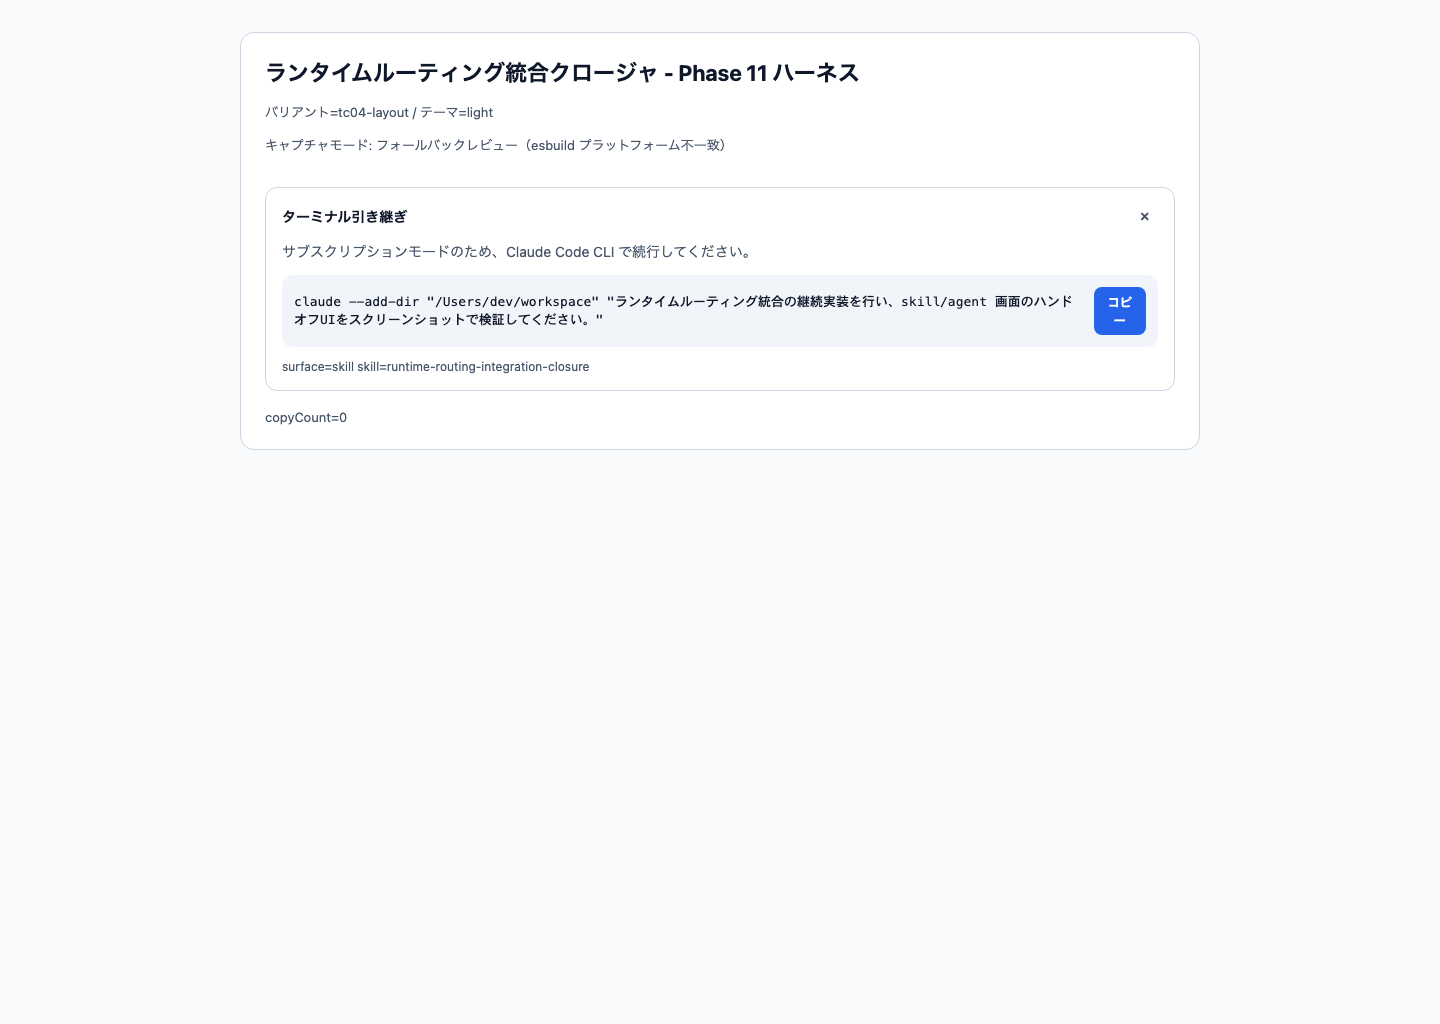
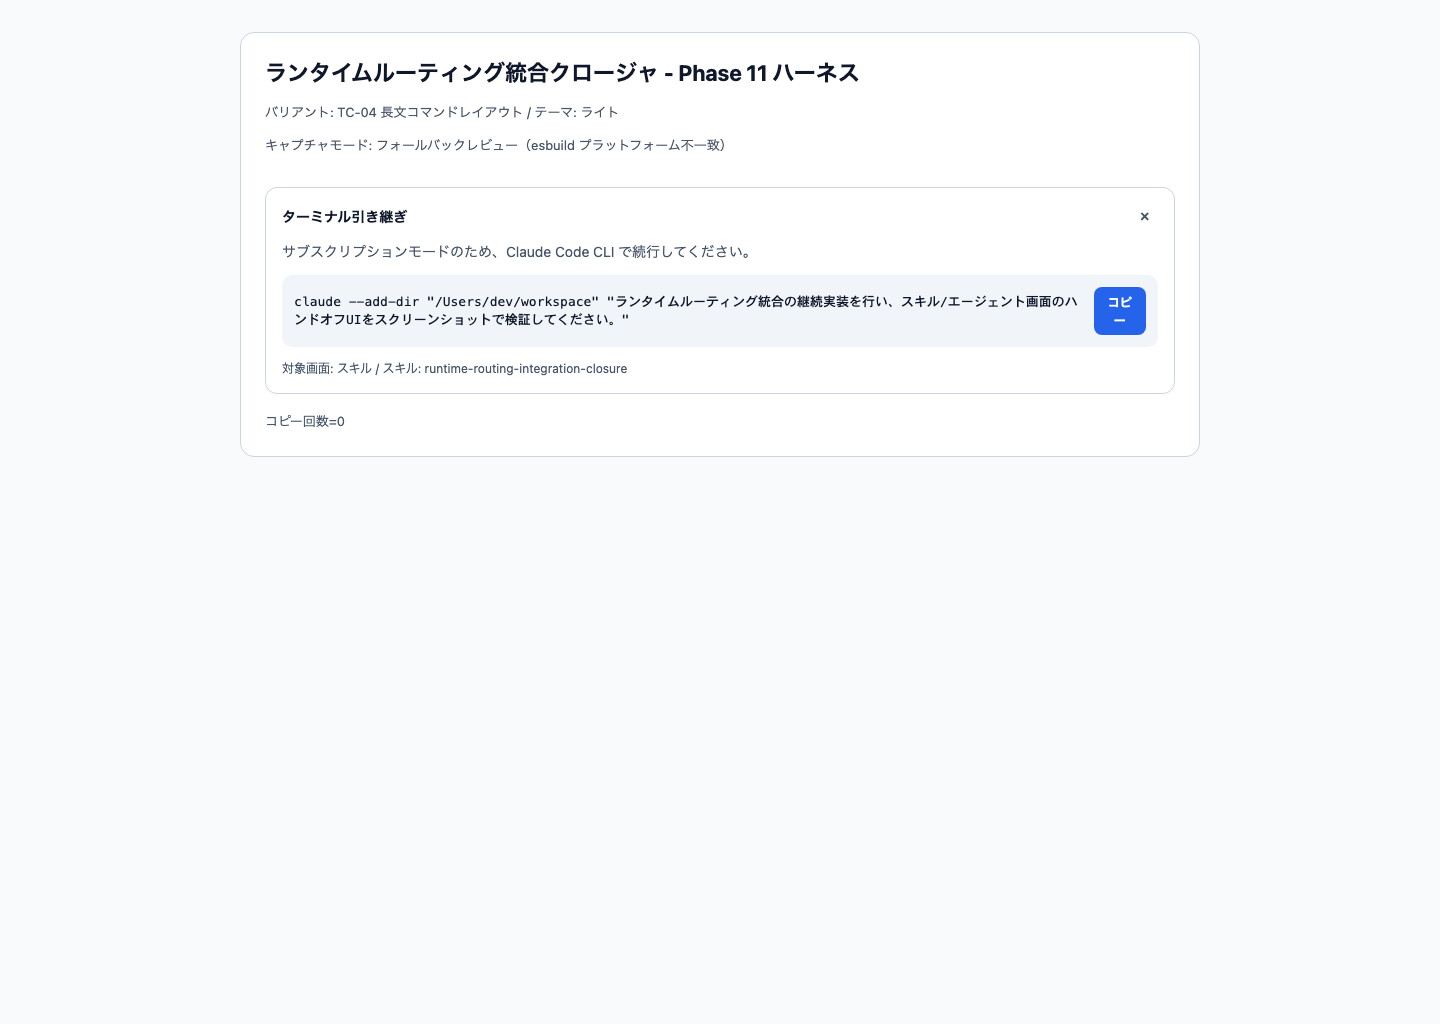
fix(runtime): runtime文言を日本語統一しhandoff表示を改善

diff --git a/apps/desktop/src/renderer/phase11-runtime-routing-integration-closure.tsx b/apps/desktop/src/renderer/phase11-runtime-routing-integration-closure.tsx
@@ -42,27 +42,43 @@ function applyTheme(): "light" | "dark" {
 }
 
 const baseSkillGuidance = {
-  terminalCommand: 'claude "Please continue with skill execution"',
+  terminalCommand: 'claude "スキル実行の続きを進めてください"',
   contextSummary: "surface=skill skill=skill-creator",
-  reason: "subscription mode: use Claude Code CLI",
+  reason:
+    "サブスクリプションモードのため、Claude Code CLI で続行してください。",
 };
 
 const baseAgentGuidance = {
-  terminalCommand: 'claude "Continue agent execution from current context"',
+  terminalCommand:
+    'claude "現在のコンテキストからエージェント実行を続けてください"',
   contextSummary: "surface=agent skill=agent-01",
-  reason: "API key not configured",
+  reason: "APIキーが設定されていません。",
 };
 
 const longCommandGuidance = {
   terminalCommand:
-    'claude --add-dir "/Users/dev/workspace" "Please continue with runtime routing integration closure and validate handoff UI for skill and agent surfaces with screenshot evidence."',
+    'claude --add-dir "/Users/dev/workspace" "ランタイムルーティング統合の継続実装を行い、スキル/エージェント画面のハンドオフUIをスクリーンショットで検証してください。"',
   contextSummary: "surface=skill skill=runtime-routing-integration-closure",
-  reason: "subscription mode: use Claude Code CLI",
+  reason:
+    "サブスクリプションモードのため、Claude Code CLI で続行してください。",
+};
+
+const variantLabels: Record<Variant, string> = {
+  "tc01-skill-handoff": "TC-01 スキル引き継ぎ",
+  "tc02-skill-integrated": "TC-02 スキル統合実行",
+  "tc03-agent-handoff": "TC-03 エージェント引き継ぎ",
+  "tc04-layout": "TC-04 長文コマンドレイアウト",
+  "tc05-copy-feedback": "TC-05 コピー操作のフィードバック",
+  "tc06-dismiss": "TC-06 引き継ぎカードを閉じる",
+  "tc07-dark-mode": "TC-07 スキル引き継ぎ（ダーク）",
+  "tc08-chat-edit-regression": "TC-08 chat-edit回帰確認",
+  "tc09-skill-regression": "TC-09 APIキー方式の回帰確認",
 };
 
 const RuntimeRoutingHarness: React.FC = () => {
   const variant = useMemo(getVariant, []);
   const theme = useMemo(applyTheme, []);
+  const themeLabel = theme === "dark" ? "ダーク" : "ライト";
 
   const initialGuidance =
     variant === "tc03-agent-handoff"
@@ -89,7 +105,7 @@ const RuntimeRoutingHarness: React.FC = () => {
             ランタイムルーティング統合クロージャ - Phase 11 ハーネス
           </h1>
           <p className="text-sm text-[var(--text-secondary)]">
-            バリアント={variant} / テーマ={theme}
+            バリアント: {variantLabels[variant]} / テーマ: {themeLabel}
           </p>
         </header>
 
@@ -143,7 +159,7 @@ const RuntimeRoutingHarness: React.FC = () => {
           data-testid="phase11-copy-count"
           className="text-xs text-[var(--text-secondary)]"
         >
-          copyCount={copyCount}
+          コピー回数={copyCount}
         </div>
       </section>
     </main>
@@ -152,7 +168,9 @@ const RuntimeRoutingHarness: React.FC = () => {
 
 const root = document.getElementById("root");
 if (!root) {
-  throw new Error("Failed to find root element for runtime routing harness");
+  throw new Error(
+    "ランタイムルーティング用ハーネスのルート要素が見つかりませんでした",
+  );
 }
 
 ReactDOM.createRoot(root).render(

diff --git a/apps/desktop/src/renderer/components/organisms/TerminalHandoffCard/TerminalHandoffCard.tsx b/apps/desktop/src/renderer/components/organisms/TerminalHandoffCard/TerminalHandoffCard.tsx
@@ -10,6 +10,39 @@ interface TerminalHandoffCardProps {
   onDismiss: () => void;
 }
 
+function localizeReason(reason: string): string {
+  switch (reason) {
+    case "subscription mode: use Claude Code CLI":
+    case "サブスクリプションモードのため、Claude Code CLI で続行してください。":
+      return "サブスクリプションモードのため、Claude Code CLI で続行してください。";
+    case "API key not configured":
+    case "APIキーが設定されていません。":
+      return "APIキーが設定されていません。";
+    case "API key unavailable":
+    case "APIキーを取得できませんでした。":
+      return "APIキーを取得できませんでした。";
+    default:
+      return reason;
+  }
+}
+
+function localizeContextSummary(contextSummary: string): string {
+  const match = contextSummary.match(/^surface=(\S+)\s+skill=(.+)$/);
+  if (!match) {
+    return contextSummary;
+  }
+
+  const [, surface, skill] = match;
+  const surfaceLabel =
+    surface === "skill"
+      ? "スキル"
+      : surface === "agent"
+        ? "エージェント"
+        : surface;
+
+  return `対象画面: ${surfaceLabel} / スキル: ${skill}`;
+}
+
 export const TerminalHandoffCard: React.FC<TerminalHandoffCardProps> = ({
   guidance,
   onCopyCommand,
@@ -17,18 +50,10 @@ export const TerminalHandoffCard: React.FC<TerminalHandoffCardProps> = ({
 }) => {
   const [isCopied, setIsCopied] = useState(false);
 
-  const localizedReason = (() => {
-    switch (guidance.reason) {
-      case "subscription mode: use Claude Code CLI":
-        return "サブスクリプションモードのため、Claude Code CLI で続行してください。";
-      case "API key not configured":
-        return "APIキーが設定されていません。";
-      case "API key unavailable":
-        return "APIキーを取得できませんでした。";
-      default:
-        return guidance.reason;
-    }
-  })();
+  const localizedReason = localizeReason(guidance.reason);
+  const localizedContextSummary = localizeContextSummary(
+    guidance.contextSummary,
+  );
 
   const handleCopy = useCallback(() => {
     onCopyCommand();
@@ -131,7 +156,7 @@ export const TerminalHandoffCard: React.FC<TerminalHandoffCardProps> = ({
 
       {/* Context summary */}
       <p className="text-xs" style={{ color: "var(--text-secondary)" }}>
-        {guidance.contextSummary}
+        {localizedContextSummary}
       </p>
     </div>
   );

diff --git a/apps/desktop/src/main/services/runtime/__tests__/RuntimeResolver.test.ts b/apps/desktop/src/main/services/runtime/__tests__/RuntimeResolver.test.ts
@@ -68,7 +68,8 @@ describe("RuntimeResolver", () => {
 
     expect(result).toEqual({
       type: "handoff",
-      reason: "subscription mode: use Claude Code CLI",
+      reason:
+        "サブスクリプションモードのため、Claude Code CLI で続行してください。",
     });
     expect(mockAuthKeyService.hasKey).not.toHaveBeenCalled();
   });
@@ -81,7 +82,7 @@ describe("RuntimeResolver", () => {
 
     expect(result).toEqual({
       type: "handoff",
-      reason: "API key not configured",
+      reason: "APIキーが設定されていません。",
     });
     expect(mockAuthKeyService.getKey).not.toHaveBeenCalled();
   });
@@ -95,7 +96,7 @@ describe("RuntimeResolver", () => {
 
     expect(result).toEqual({
       type: "handoff",
-      reason: "API key unavailable",
+      reason: "APIキーを取得できませんでした。",
     });
   });
 
@@ -126,7 +127,7 @@ describe("RuntimeResolver", () => {
 
       expect(result).toEqual({
         type: "handoff",
-        reason: "API key not configured",
+        reason: "APIキーが設定されていません。",
       });
       expect(mockAuthKeyService.hasKey).toHaveBeenCalled();
     });
@@ -151,7 +152,7 @@ describe("RuntimeResolver", () => {
 
       expect(result).toEqual({
         type: "handoff",
-        reason: "API key unavailable",
+        reason: "APIキーを取得できませんでした。",
       });
     });
   });

diff --git a/apps/desktop/src/main/services/runtime/TerminalHandoffBuilder.ts b/apps/desktop/src/main/services/runtime/TerminalHandoffBuilder.ts
@@ -59,7 +59,7 @@ export class TerminalHandoffBuilder {
   ): HandoffGuidance {
     const prompt =
       request.prompt?.trim() ||
-      "Please continue agent execution from current context";
+      "現在のコンテキストからエージェント実行を続けてください";
     const cwd =
       request.workingDirectory?.trim() && request.workingDirectory.trim() !== ""
         ? request.workingDirectory
@@ -84,8 +84,8 @@ export class TerminalHandoffBuilder {
     const prompt =
       request.prompt?.trim() ||
       (request.skillName?.trim()
-        ? `Please continue skill execution for "${request.skillName}"`
-        : "Please continue skill execution with latest context");
+        ? `「${request.skillName}」のスキル実行を続けてください`
+        : "最新のコンテキストでスキル実行を続けてください");
     const cwd =
       request.workingDirectory?.trim() && request.workingDirectory.trim() !== ""
         ? request.workingDirectory

diff --git a/apps/desktop/src/main/ipc/__tests__/skillHandlers.runtime.test.ts b/apps/desktop/src/main/ipc/__tests__/skillHandlers.runtime.test.ts
@@ -148,7 +148,8 @@ describe("skillHandlers runtime integration", () => {
   it("RuntimeResolver が handoff を返す → HandoffGuidance 応答が返される", async () => {
     mockResolve.mockResolvedValue({
       type: "handoff",
-      reason: "subscription mode: use Claude Code CLI",
+      reason:
+        "サブスクリプションモードのため、Claude Code CLI で続行してください。",
     });
 
     const { registerSkillHandlers } = await import("../skillHandlers");
@@ -176,7 +177,7 @@ describe("skillHandlers runtime integration", () => {
     expect(opResult.success).toBe(true);
     expect(opResult.data?.handoff).toBe(true);
     expect(opResult.data?.success).toBe(false);
-    expect(opResult.data?.error).toContain("subscription mode");
+    expect(opResult.data?.error).toContain("サブスクリプションモード");
     expect(opResult.data?.guidance?.terminalCommand).toContain("claude");
   });
 

diff --git a/apps/desktop/src/main/ipc/__tests__/agentHandlers.runtime.test.ts b/apps/desktop/src/main/ipc/__tests__/agentHandlers.runtime.test.ts
@@ -108,7 +108,7 @@ describe("agentHandlers runtime integration", () => {
   it("RuntimeResolver が handoff を返す → HandoffGuidance 応答が返される", async () => {
     mockResolve.mockResolvedValue({
       type: "handoff",
-      reason: "API key not configured",
+      reason: "APIキーが設定されていません。",
     });
 
     const { registerAgentExecutionHandlers } = await import("../agentHandlers");
@@ -131,7 +131,7 @@ describe("agentHandlers runtime integration", () => {
 
     expect(opResult.success).toBe(false);
     expect(opResult.handoff).toBe(true);
-    expect(opResult.error).toContain("API key not configured");
+    expect(opResult.error).toContain("APIキーが設定されていません");
     expect(opResult.guidance?.terminalCommand).toContain("claude");
     expect(mockExecutionManager.startExecution).not.toHaveBeenCalled();
   });

diff --git a/apps/desktop/src/main/services/runtime/RuntimeResolver.ts b/apps/desktop/src/main/services/runtime/RuntimeResolver.ts
@@ -26,18 +26,19 @@ export class RuntimeResolver {
     if (authMode === "subscription") {
       return {
         type: "handoff",
-        reason: "subscription mode: use Claude Code CLI",
+        reason:
+          "サブスクリプションモードのため、Claude Code CLI で続行してください。",
       };
     }
 
     const hasKey = await this.authKeyService.hasKey();
     if (!hasKey) {
-      return { type: "handoff", reason: "API key not configured" };
+      return { type: "handoff", reason: "APIキーが設定されていません。" };
     }
 
     const apiKey = await this.authKeyService.getKey();
     if (!apiKey) {
-      return { type: "handoff", reason: "API key unavailable" };
+      return { type: "handoff", reason: "APIキーを取得できませんでした。" };
     }
 
     return { type: "integrated" };

diff --git a/apps/desktop/src/main/services/chat-edit/RuntimeResolver.ts b/apps/desktop/src/main/services/chat-edit/RuntimeResolver.ts
@@ -26,19 +26,20 @@ export class RuntimeResolver {
     if (authMode === "subscription") {
       return {
         type: "handoff",
-        reason: "subscription mode: use Claude Code CLI",
+        reason:
+          "サブスクリプションモードのため、Claude Code CLI で続行してください。",
       };
     }
 
     // api-key mode
     const hasKey = await this.authKeyService.hasKey();
     if (!hasKey) {
-      return { type: "handoff", reason: "API key not configured" };
+      return { type: "handoff", reason: "APIキーが設定されていません。" };
     }
 
     const apiKey = await this.authKeyService.getKey();
     if (!apiKey) {
-      return { type: "handoff", reason: "API key unavailable" };
+      return { type: "handoff", reason: "APIキーを取得できませんでした。" };
     }
 
     return {

diff --git a/apps/desktop/src/renderer/store/slices/__tests__/agentSlice.executeSkill.preflight.test.ts b/apps/desktop/src/renderer/store/slices/__tests__/agentSlice.executeSkill.preflight.test.ts
@@ -112,11 +112,13 @@ describe("agentSlice.executeSkill preflight", () => {
       executionId: "handoff-1",
       success: false,
       handoff: true,
-      error: "subscription mode: use Claude Code CLI",
+      error:
+        "サブスクリプションモードのため、Claude Code CLI で続行してください。",
       guidance: {
         terminalCommand: 'claude "Continue this task"',
         contextSummary: "surface=skill skill=test-skill",
-        reason: "subscription mode: use Claude Code CLI",
+        reason:
+          "サブスクリプションモードのため、Claude Code CLI で続行してください。",
       },
     });
 
